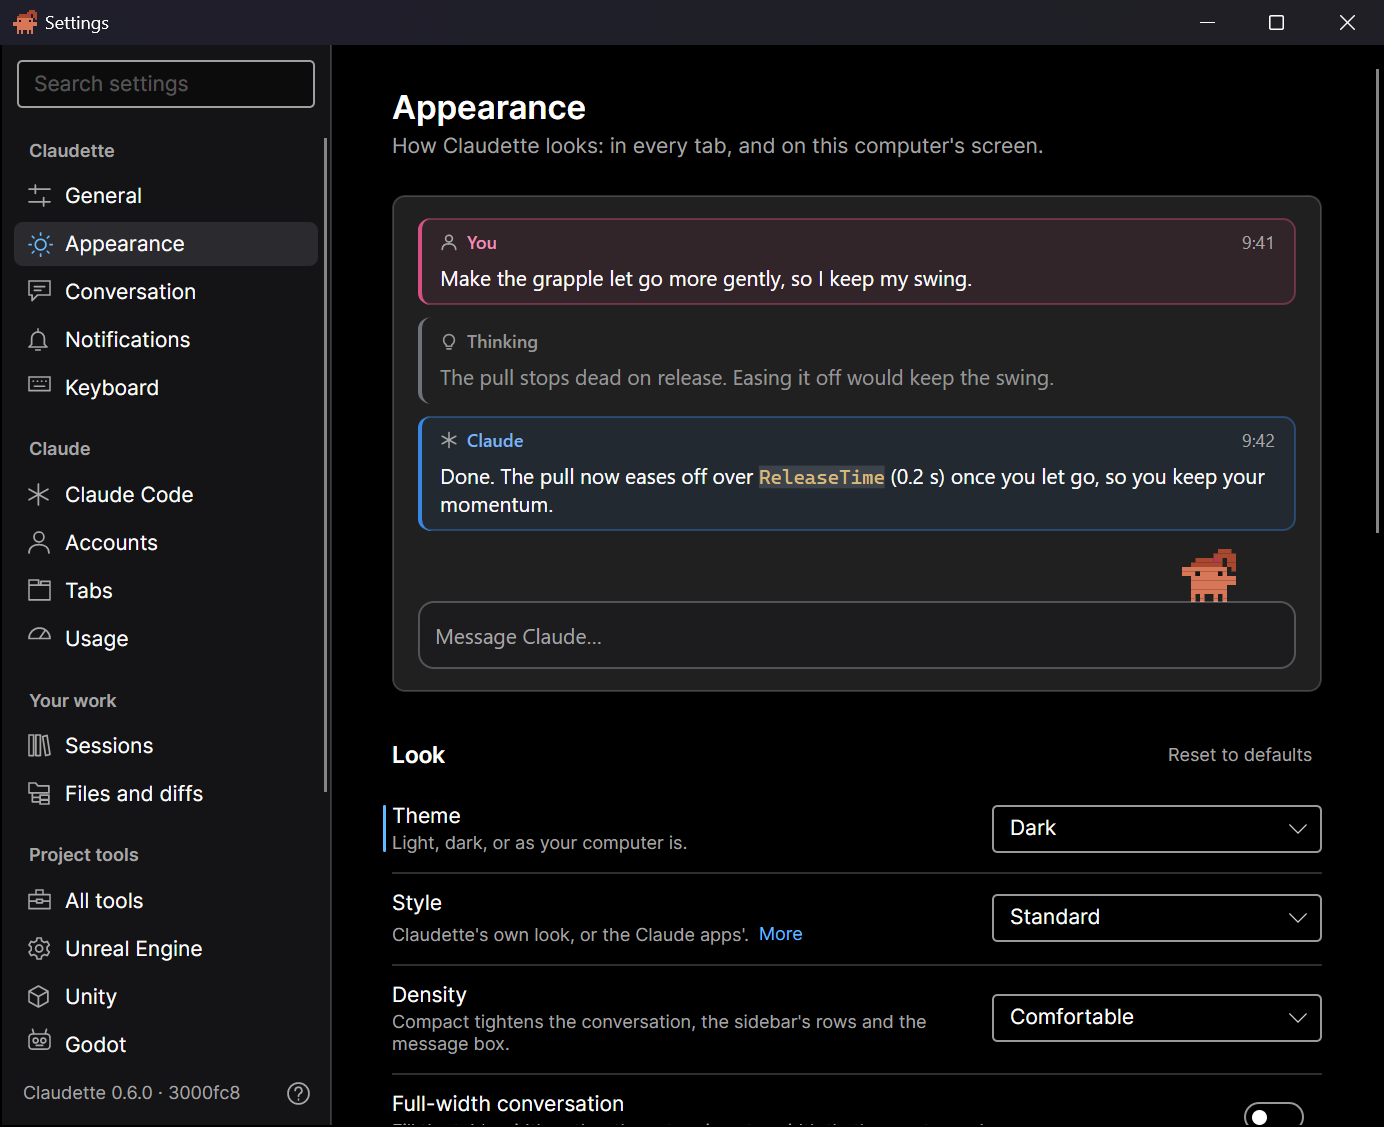
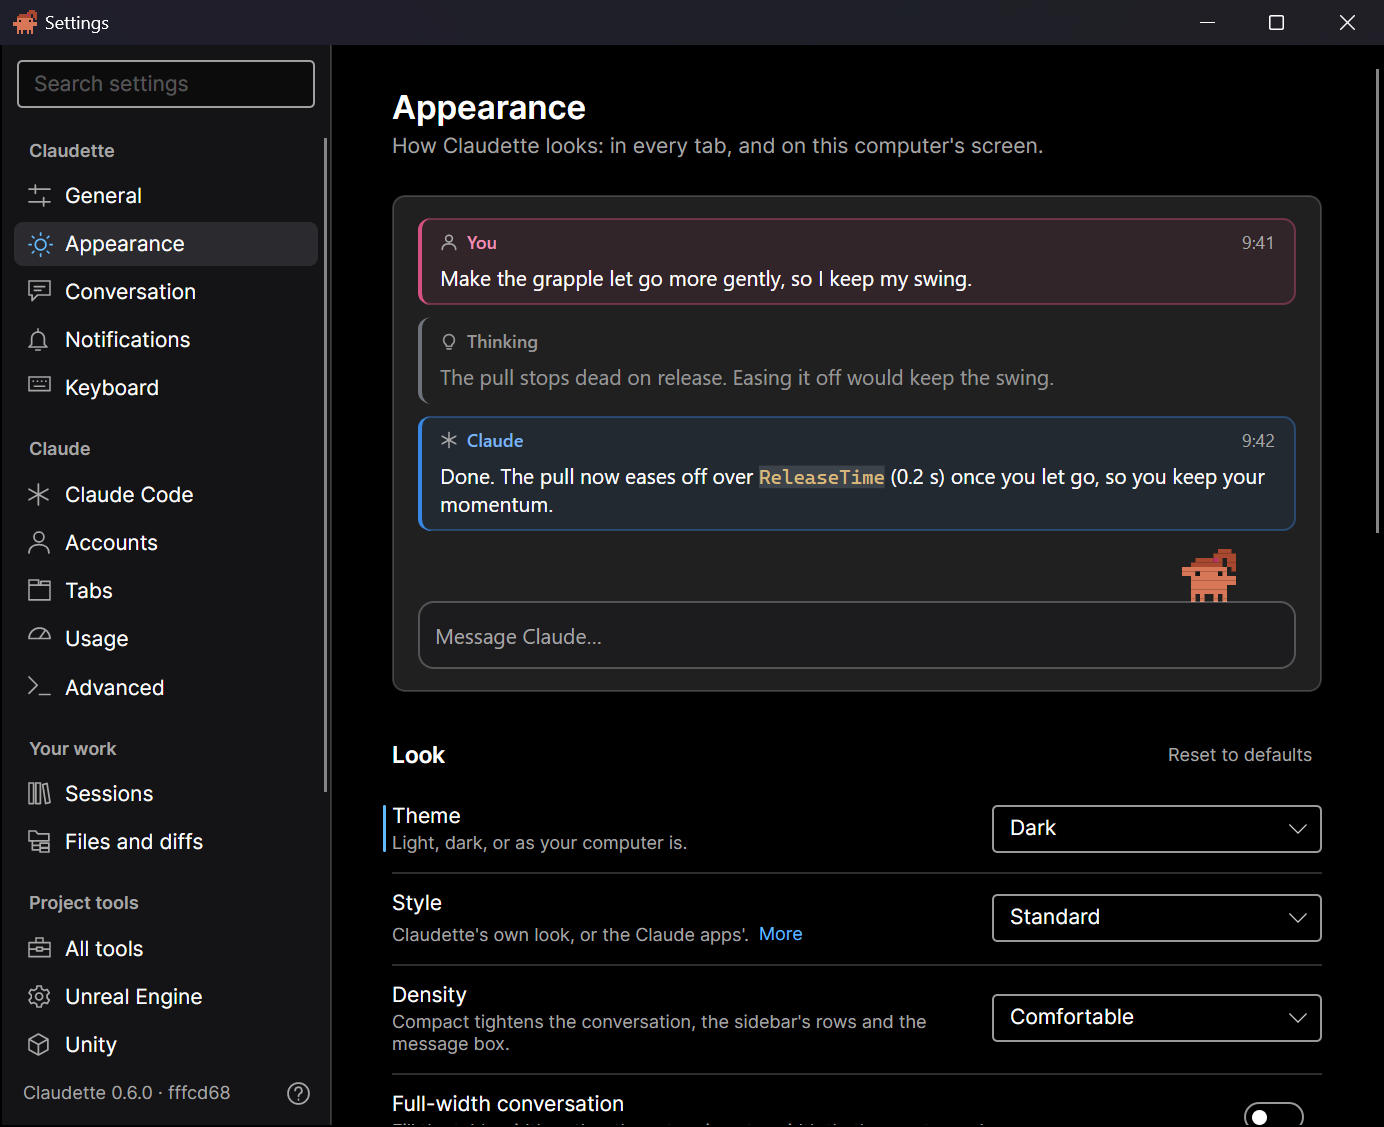
Settings: Advanced is the last of Claude's pages
Advanced is mostly about running Claude Code (its extra arguments, protocol
logging, what it sent that Claudette doesn't know), so it moves from the
end of the sidebar, where it had no heading and read as part of Project
tools, to after Usage under Claude. Every page now sits under a heading.

Docs: DESIGN.md sec. 14, CHANGELOG, the guide's Settings window and Every
setting pages, with the Settings pictures retaken.

diff --git a/src/Claudette.App/ViewModels/SettingsViewModel.cs b/src/Claudette.App/ViewModels/SettingsViewModel.cs
@@ -67,7 +67,7 @@ public sealed partial class SettingsViewModel : ViewModelBase, IDisposable
     private readonly AppServices _services;
     private readonly SettingsContext _context;
     private readonly ISettingsHost? _host;
-    private readonly IReadOnlyList<(string? Heading, IReadOnlyList<string> Categories)> _groups;
+    private readonly IReadOnlyList<(string Heading, IReadOnlyList<string> Categories)> _groups;
     private readonly List<SettingsPage> _categoryPages;
     private UiTimeout HighlightWait => field ??= new(_services.Time, _services.Dispatcher);
 
@@ -99,7 +99,7 @@ public sealed partial class SettingsViewModel : ViewModelBase, IDisposable
         Advanced = new AdvancedPage(_context, ClaudeCode);
         _groups = SettingsSidebar.Groups(types);
         Categories = [.. _groups.SelectMany(g => g.Categories)];
-        SettingsPage[] pages = [General, Appearance, Conversation, Notifications, Keyboard, ClaudeCode, Accounts, Tabs, Usage, Sessions, Files, AllTools, .. ProjectTypes, Perforce, Advanced];
+        SettingsPage[] pages = [General, Appearance, Conversation, Notifications, Keyboard, ClaudeCode, Accounts, Tabs, Usage, Advanced, Sessions, Files, AllTools, .. ProjectTypes, Perforce];
         _categoryPages = [.. Categories.Select(category => pages.Single(p => p.Title == category))];
         foreach (var page in _categoryPages)
         {
@@ -268,10 +268,7 @@ public sealed partial class SettingsViewModel : ViewModelBase, IDisposable
         NavEntries.Clear();
         foreach (var (heading, categories) in _groups)
         {
-            if (heading is not null)
-            {
-                NavEntries.Add(SettingsNavEntry.Heading(heading));
-            }
+            NavEntries.Add(SettingsNavEntry.Heading(heading));
             foreach (var page in categories.Select(category => _categoryPages.First(p => p.Title == category)))
             {
                 NavEntries.Add(SettingsNavEntry.Page(page.Title, page.IconKey, page.NavTag));

diff --git a/src/Claudette.App/ViewModels/SettingsCategory.cs b/src/Claudette.App/ViewModels/SettingsCategory.cs
@@ -41,20 +41,20 @@ public static class SettingsCategory
 }
 
 /// <summary>
-/// The Settings sidebar's groups (DESIGN.md §14), in order: a heading and its categories. The last has no heading.
-/// Project tools has All tools, a page for each project type Claudette knows, in its order, then Perforce.
+/// The Settings sidebar's groups (DESIGN.md §14), in order: a heading and its categories. Claude ends with Advanced, which
+/// is mostly about running Claude Code; Project tools has All tools, a page for each project type Claudette knows, in its
+/// order, then Perforce.
 /// </summary>
 public static class SettingsSidebar
 {
     public const string ProjectTools = "Project tools";
 
-    public static IReadOnlyList<(string? Heading, IReadOnlyList<string> Categories)> Groups(IEnumerable<IProjectType> types) =>
+    public static IReadOnlyList<(string Heading, IReadOnlyList<string> Categories)> Groups(IEnumerable<IProjectType> types) =>
     [
         ("Claudette", [SettingsCategory.General, SettingsCategory.Appearance, SettingsCategory.Conversation, SettingsCategory.Notifications, SettingsCategory.Keyboard]),
-        ("Claude", [SettingsCategory.ClaudeCode, SettingsCategory.Accounts, SettingsCategory.Tabs, SettingsCategory.Usage]),
+        ("Claude", [SettingsCategory.ClaudeCode, SettingsCategory.Accounts, SettingsCategory.Tabs, SettingsCategory.Usage, SettingsCategory.Advanced]),
         ("Your work", [SettingsCategory.Sessions, SettingsCategory.Files]),
         (ProjectTools, [SettingsCategory.AllTools, .. types.Select(t => t.Name), SettingsCategory.Perforce]),
-        (null, [SettingsCategory.Advanced]),
     ];
 
     /// <summary>Every category, in the sidebar's order.</summary>

diff --git a/tests/Claudette.App.Tests/ProjectSettingsTests.cs b/tests/Claudette.App.Tests/ProjectSettingsTests.cs
@@ -787,9 +787,10 @@ public class ProjectSettingsTests
         using var settings = new SettingsViewModel(h.Services, null);
 
         Assert.Equal(["Claudette", "Claude", "Your work", SettingsSidebar.ProjectTools], settings.NavEntries.Where(e => e.IsHeading).Select(e => e.Title));
+        // Advanced is the last of Claude's pages: it's mostly about running Claude Code.
+        Assert.Equal(["Claude Code", "Accounts", "Tabs", "Usage", "Advanced"], PagesUnder(settings, "Claude"));
         Assert.Equal(["Sessions", "Files and diffs"], PagesUnder(settings, "Your work"));
-        // Advanced, the group without a heading, follows the last group's pages.
-        Assert.Equal(["All tools", "Unreal Engine", "Unity", "Godot", "Perforce", "Advanced"], PagesUnder(settings, SettingsSidebar.ProjectTools));
+        Assert.Equal(["All tools", "Unreal Engine", "Unity", "Godot", "Perforce"], PagesUnder(settings, SettingsSidebar.ProjectTools));
         Assert.Equal(h.Services.ProjectTools.Detector.Types.Select(t => t.Name), settings.ProjectTypes.Select(p => p.Title));
 
         // Every page has an icon of its own; each project type's is its kind's.

diff --git a/DESIGN.md b/DESIGN.md
@@ -2052,7 +2052,7 @@ An app started from the Dock, Finder or a desktop launcher gets a minimal enviro
 A **Settings** window opens with `Ctrl+,` on Windows or `Cmd+,` on macOS, where it is also **Settings…** in the app menu. It follows each platform's conventions:
 
 - **It isn't modal.** It stays open beside the main window, and asking for it again brings it to the front, at the page asked for. Its project pages follow the tab selected in the main window ([below](#the-projects-pages)). It opens on the page it was left on. Esc, or `Ctrl/Cmd+W`, closes it, and `Ctrl/Cmd+F` goes to the search box.
-- **The sidebar** has the pages in groups, each page with its icon: **Claudette** (General, Appearance, Conversation, Notifications, Keyboard), **Claude** (Claude Code, Accounts, Tabs, Usage), **Your work** (Sessions, Files and diffs), **Project tools** (All tools, a page for each kind of project Claudette knows, Unreal Engine, Unity and Godot, then Perforce), then Advanced; and after them, the selected tab's project with its own pages ([below](#the-projects-pages)). It's one list, so the arrow keys go through every page; a group's heading isn't a page, and can't be picked or focused. A kind of project switched off on this machine says *Off* after its name, which a screen reader reads as its status; its page can still be picked. The search box is above it ([Search](#search)), and the version and **Help** are at its foot ([Version](#version)).
+- **The sidebar** has the pages in groups, each page with its icon: **Claudette** (General, Appearance, Conversation, Notifications, Keyboard), **Claude** (Claude Code, Accounts, Tabs, Usage, and Advanced, which is mostly about running Claude Code), **Your work** (Sessions, Files and diffs), **Project tools** (All tools, a page for each kind of project Claudette knows, Unreal Engine, Unity and Godot, then Perforce); and after them, the selected tab's project with its own pages ([below](#the-projects-pages)). It's one list, so the arrow keys go through every page; a group's heading isn't a page, and can't be picked or focused. A kind of project switched off on this machine says *Off* after its name, which a screen reader reads as its status; its page can still be picked. The search box is above it ([Search](#search)), and the version and **Help** are at its foot ([Version](#version)).
 - **A page** has its title, a line saying what's on it, and its sections, each with a heading and sometimes a line under it. In the Claude style each section is a card. The page is a column at most 720 pixels wide, so a setting's control stays near its name and its line stays easy to read; in a window wider than that, the column is centred in the space beside the sidebar.
 - **A setting** is a row: its title, one line saying what it does, and **More** for the rest, when there is more; its control is beside it, or under it when it's wide (a text box, a list). A setting that's on or off is a switch. A setting that isn't at its default has a short bar in the accent color at its left, and **Reset**, which shows while it's pointed at or has the focus, puts that one back.
 - **Changes apply immediately**; there is no Save button. A text box takes effect when it loses the focus, not on each key, since each change is applied to every tab.
@@ -2074,12 +2074,12 @@ A **Settings** window opens with `Ctrl+,` on Windows or `Cmd+,` on macOS, where 
 | Accounts | All of it this computer's. **Accounts**: New folders use (Default unless changed), then each account besides Default: its name, its tag's color, warnings when its estimated spend passes an amount today or this month, **Change key…** and **Remove…**. **Add an API key**: a name and the key, which goes only to the OS credential store. See [§4](#accounts). |
 | Tabs | **New tabs start with**: model, effort level, permission mode and **Subagents**, each of which a tab can change for itself ([Per-tab overrides](#per-tab-overrides)). The permission mode is **Claude Code's default** unless chosen, named with the mode it gives, usually Auto ([Starting mode](#starting-mode)). The model and effort lists are what Claude Code offered in its last `initialize` reply on this machine (the models and each one's effort levels, kept with the machine's state), with a built-in list only until a session has started; Tab settings… lists them the same way. **Subagents** (this computer's): Claude decides (the default), discourage them, or don't allow them, applied at once ([§5](#subagents)). **At a usage limit**: Continue tasks when a usage limit resets (on by default; [§6](#continuing-after-a-limit-resets)), and Use usage credits once a limit is used up (on by default, and in a tab's menu too; [§6](#tabs-that-dont-use-usage-credits)). **Check-ins on long turns**: on or off, run time and quiet time before checking in, the message, and Notify me when a check-in is sent ([§5](#check-ins-on-long-turns)). **Process monitor**: show it, how often it refreshes, and show command lines ([§4](#process-monitor)). **New tab picker**: number of recent folders to keep (default 20), **Clear recent folders**, and favorite folders (this computer's; **Add folder…**, **Move up**, **Move down**, **Remove**), in the order the picker shows them ([Opening a tab](#opening-a-tab)). |
 | Usage | **Warnings**: **Warn at** and **Alert at** (% of the session used; default 75% and 90%), and the burn rate window (default 30 minutes). **The usage header**: **Show model-specific weekly limits** (on by default), **If Claude Code stops reporting them, read them from /usage** (off by default), and **Detailed usage header** (off by default): the same switch as the header's chevron, kept on this machine ([Detailed header](#detailed-header)). **History**: **Keep usage history**: 1 day, 1 week, 1 month (default), 1 year or forever, with **Clear usage history** beside it ([Usage history](#usage-history)), and **Share usage with my other machines**: plan readings, and synced tabs' turns (off by default; [Sharing across machines](#sharing-across-machines)), with **Clear usage history on every machine…**. |
+| Advanced | All of it this computer's. **Running claude**: extra command-line arguments passed to `claude`, protocol logging with **Open log folder**, and Claudette's data folder. **Diagnostics**: what Claude Code sent that Claudette doesn't know, the minimum supported Claude Code version, and **Copy diagnostics** ([§16](#staying-tolerant-at-runtime)). |
 | Sessions | All of it this computer's. **Session library**: the folder (with **Browse…** and **Move library…**, which copies existing sessions to the new folder), and under it what the library takes, *The library holds 1.4 GB: 23 sessions.*: every file in it but leases, scratch pads, usage and settings sync included, measured off the UI thread each time the page shows and after the folder changes. Sync new tabs to the session library (off by default; each tab can be switched with **Sync to other machines** in its menu). Name for this machine, as shown in History. **Delete sessions not used for a while** (on by default), with how many days under it (15 by default; [Keeping sessions](#session-library-sync-across-machines)). **Settings sync**: **Sync Claudette's settings through the library** (off by default), with what it copies. See [§9](#session-library-sync-across-machines) and [Settings sync](#settings-sync-optional). |
 | Files and diffs | All of it this computer's. **Opening files**: **Open files in** Claudette's editor, at the line named (the default), or the app the OS uses for the file; **Show a file clicked in a conversation** beside the conversation (the default) or in its place; **Open images in** Claudette's image viewer (the default) or the OS's app ([§18](#opening-images)). **Project Files tab**: **The explorer is on the** left (the default) or right, **Wrap long lines** (off by default), and **Indent new lines with** (4 spaces by default), for files that have no indentation to go by ([§18](#project-files)). **Diff tool**: built-in, a preset or a custom command, with **Test** ([§8](#external-diff-tool)), and **Open in the diff window**: the file, as **Open files in** says (the default), the file in the app the OS uses for it, or the changes in the diff tool ([§8](#8-file-changes--diff-view)). |
 | All tools | All of it this computer's. What every kind of project shares, first in **Project tools**. **Solutions**: open them with the OS's app, Rider, Visual Studio, VS Code or another program (**Browse…**). **Editor logs**: show editor logs under the tab (on by default). See [§18](#project-tools). |
 | Unreal Engine, Unity, Godot | All of it this computer's. A page for each project type ([§18](#project-types)), in **Project tools**, drawn from what the type declares, with the type's icon and its line under the title. **Projects**: **Recognize Unreal Engine projects** and **Tell Claude about Unreal Engine projects** (both on by default). **Defaults**, what every project of the type starts with, when the type has settings of its own: for Unreal, the default editor configuration (Development or DebugGame) and project files for Visual Studio, VS Code or Xcode (the OS's own by default); for Unity, the default code optimization (Release or Debug); for Godot, the executable (**Browse…**, **Detect**). While a type is switched off, the rest of its page is disabled, and the sidebar says *Off* after its name. |
 | Perforce | All of it this computer's. **Logins**: Keep Perforce logins fresh (off by default), the password source, **Renew the ticket when less is left than (minutes)**, **Request tickets valid on all hosts** (`p4 login -a`), and show changelist on tabs. **Stored password**: a password for a server and user (**Save** / **Forget**). **Per-folder server and user**. See [§18](#perforce-ticket-handling). |
-| Advanced | All of it this computer's. **Running claude**: extra command-line arguments passed to `claude`, protocol logging with **Open log folder**, and Claudette's data folder. **Diagnostics**: what Claude Code sent that Claudette doesn't know, the minimum supported Claude Code version, and **Copy diagnostics** ([§16](#staying-tolerant-at-runtime)). |
 
 ### Keyboard shortcuts
 

diff --git a/CHANGELOG.md b/CHANGELOG.md
@@ -17,7 +17,7 @@ The format follows [Keep a Changelog](https://keepachangelog.com/en/1.1.0/), and
 
 ### Changed
 
-- **A new Settings window.** Its pages are in groups down the left, each with an icon: Claudette (General, Appearance, Conversation, Notifications, Keyboard), Claude (Claude Code, Accounts, Tabs, Usage), Your work (Sessions, Files and diffs) and Project tools (All tools, a page each for Unreal Engine, Unity and Godot, and Perforce), then Advanced. All tools has how solutions open and **Show editor logs under the tab**. Each page is in sections, and each setting has a line saying what it does, with **More** for the rest. Settings that are on or off are switches. A setting you've changed has a bar at its left and a **Reset** of its own, and each section has its own **Reset to defaults** in place of one for the whole page. What settings sync leaves on each machine says **This computer**, and a setting that a tab has changed for itself says how many tabs have.
+- **A new Settings window.** Its pages are in groups down the left, each with an icon: Claudette (General, Appearance, Conversation, Notifications, Keyboard), Claude (Claude Code, Accounts, Tabs, Usage, Advanced), Your work (Sessions, Files and diffs) and Project tools (All tools, a page each for Unreal Engine, Unity and Godot, and Perforce). All tools has how solutions open and **Show editor logs under the tab**. Each page is in sections, and each setting has a line saying what it does, with **More** for the rest. Settings that are on or off are switches. A setting you've changed has a bar at its left and a **Reset** of its own, and each section has its own **Reset to defaults** in place of one for the whole page. What settings sync leaves on each machine says **This computer**, and a setting that a tab has changed for itself says how many tabs have.
 - **Settings stays open.** It's a window beside the main one now, so you can keep it open while you work and see what a change does. Its project pages follow the tab you select, and it opens on the page you left.
 - **Some settings moved.** Conversation is a new page, with what was in Appearance about the conversation, the working line and the tab rows, and **Messages sent while Claude works**, **Show every hook run** and **Suggest my next prompt**. Tabs has what new tabs start with (it was New tabs), **Subagents**, what happens at a usage limit, the check-ins and the process monitor (which were pages of their own), and the new tab picker's folders. Quick suffixes are on Keyboard, and the diff tool and the Project Files tab's settings on Files and diffs. **Also restore unpinned tabs when Claudette starts** is on General, with **Also while tabs are connected to the Claude app**; **Name each tab's session in Claude Code after the tab** is on Claude Code, and **Detailed usage header** on Usage. Search finds any of them by name, by what it does, or by other words for it, such as "dark mode".
 - **Each kind of project has its own icon**, on its page in Settings and on the project's row at the foot of the sidebar: a gear for Unreal Engine, a cube for Unity and a robot's head for Godot. A folder with no project Claudette knows shows a folder there.

diff --git a/docs/settings/every-setting.md b/docs/settings/every-setting.md
@@ -176,6 +176,17 @@ Your favorite and recent folders belong to this machine. They stay put when sett
 
 **Keep usage history** isn't put back by **Reset to defaults**.
 
+## Advanced
+
+None of this page syncs.
+
+| Setting | Section | Default | Explained in |
+|---|---|---|---|
+| **Extra arguments for every claude process** | Running claude | Empty | [Advanced](advanced.md#extra-arguments-for-claude) |
+| **Log protocol traffic**, with **Open log folder** | Running claude | Off | [Advanced](advanced.md#log-protocol-traffic) |
+| **Claudette's data folder**, with **Open data folder** | Running claude | | [Advanced](advanced.md#the-log-and-data-folders) |
+| What Claude Code sent that Claudette doesn't know, with **Copy diagnostics** | Diagnostics | | [Advanced](advanced.md#diagnostics) |
+
 ## Sessions
 
 None of this page syncs.
@@ -256,17 +267,6 @@ None of this page syncs.
 | A password for a server and user, with **Save password** and **Forget password** | Stored password | None | [Perforce](../project-tools/perforce.md) |
 | Each folder's server and user, with **Add folder…** | Per-folder server and user | None | [Perforce](../project-tools/perforce.md) |
 
-## Advanced
-
-None of this page syncs.
-
-| Setting | Section | Default | Explained in |
-|---|---|---|---|
-| **Extra arguments for every claude process** | Running claude | Empty | [Advanced](advanced.md#extra-arguments-for-claude) |
-| **Log protocol traffic**, with **Open log folder** | Running claude | Off | [Advanced](advanced.md#log-protocol-traffic) |
-| **Claudette's data folder**, with **Open data folder** | Running claude | | [Advanced](advanced.md#the-log-and-data-folders) |
-| What Claude Code sent that Claudette doesn't know, with **Copy diagnostics** | Diagnostics | | [Advanced](advanced.md#diagnostics) |
-
 ## The project's pages
 
-The **Links**, **Actions** and **Tools** pages after Advanced aren't in this list. They belong to a project rather than to Claudette: [the Settings window](the-settings-window.md#the-projects-pages) says how they work, and [Actions and links](../project-tools/actions-and-links.md) what they hold.
+The **Links**, **Actions** and **Tools** pages at the end of the sidebar aren't in this list. They belong to a project rather than to Claudette: [the Settings window](the-settings-window.md#the-projects-pages) says how they work, and [Actions and links](../project-tools/actions-and-links.md) what they hold.

diff --git a/docs/settings/the-settings-window.md b/docs/settings/the-settings-window.md
@@ -28,10 +28,10 @@ Settings opens on the page you left it on. It's a window of its own that stays o
 The sidebar lists the pages in groups:
 
 - **Claudette**: General, Appearance, Conversation, Notifications and Keyboard.
-- **Claude**: Claude Code, Accounts, Tabs and Usage.
+- **Claude**: Claude Code, Accounts, Tabs, Usage and Advanced.
 - **Your work**: Sessions, and Files and diffs.
 - **Project tools**: All tools, which has what every kind of project shares, then a page for each kind of project Claudette knows, Unreal Engine, Unity and Godot, each with its own icon, then Perforce. A kind of project you've switched off says *Off* beside its name, and its page is still there to switch it back on.
-- Then Advanced, and after it the [selected tab's project](#the-projects-pages).
+- Then the [selected tab's project](#the-projects-pages).
 
 The arrow keys go up and down through every page. [Every setting](every-setting.md) has a table for each.
 
